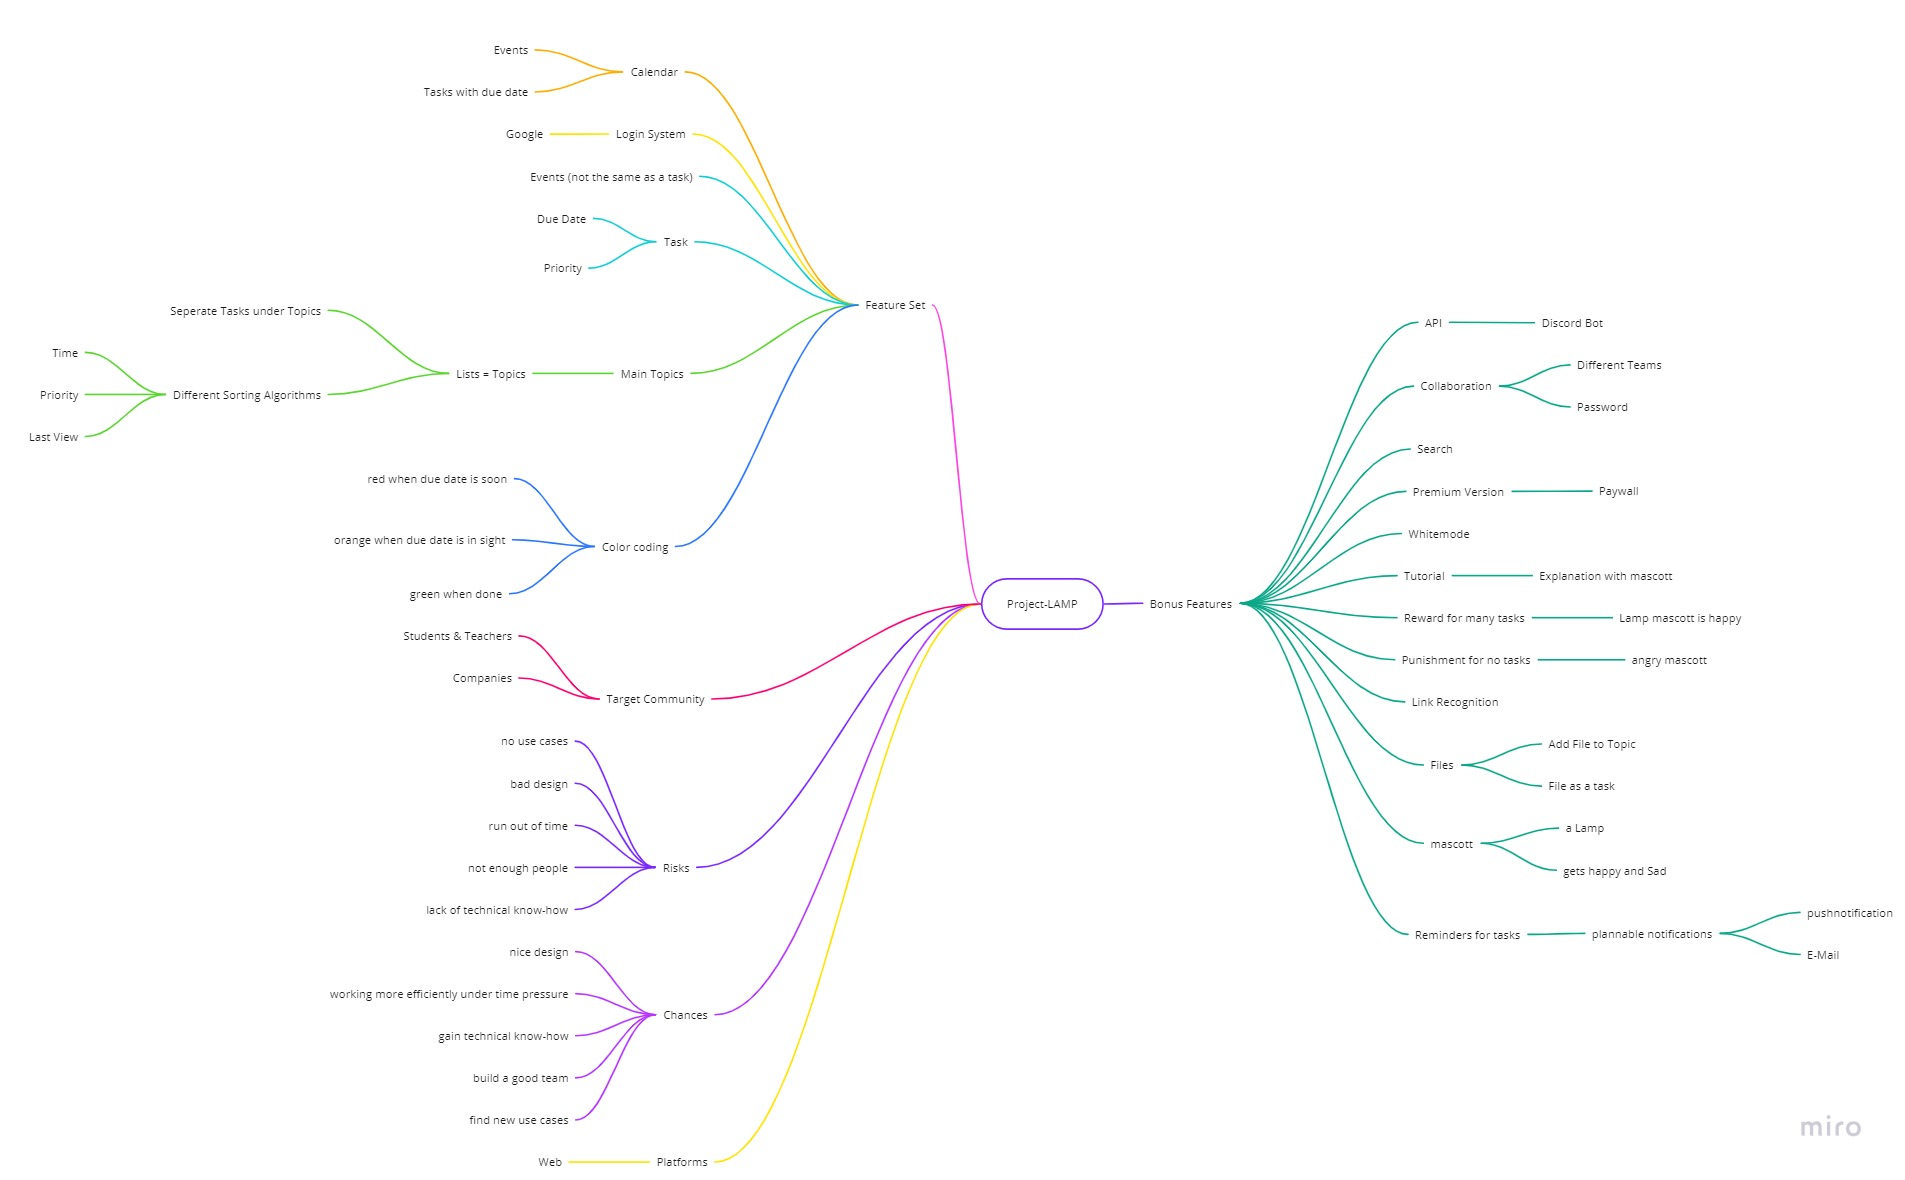
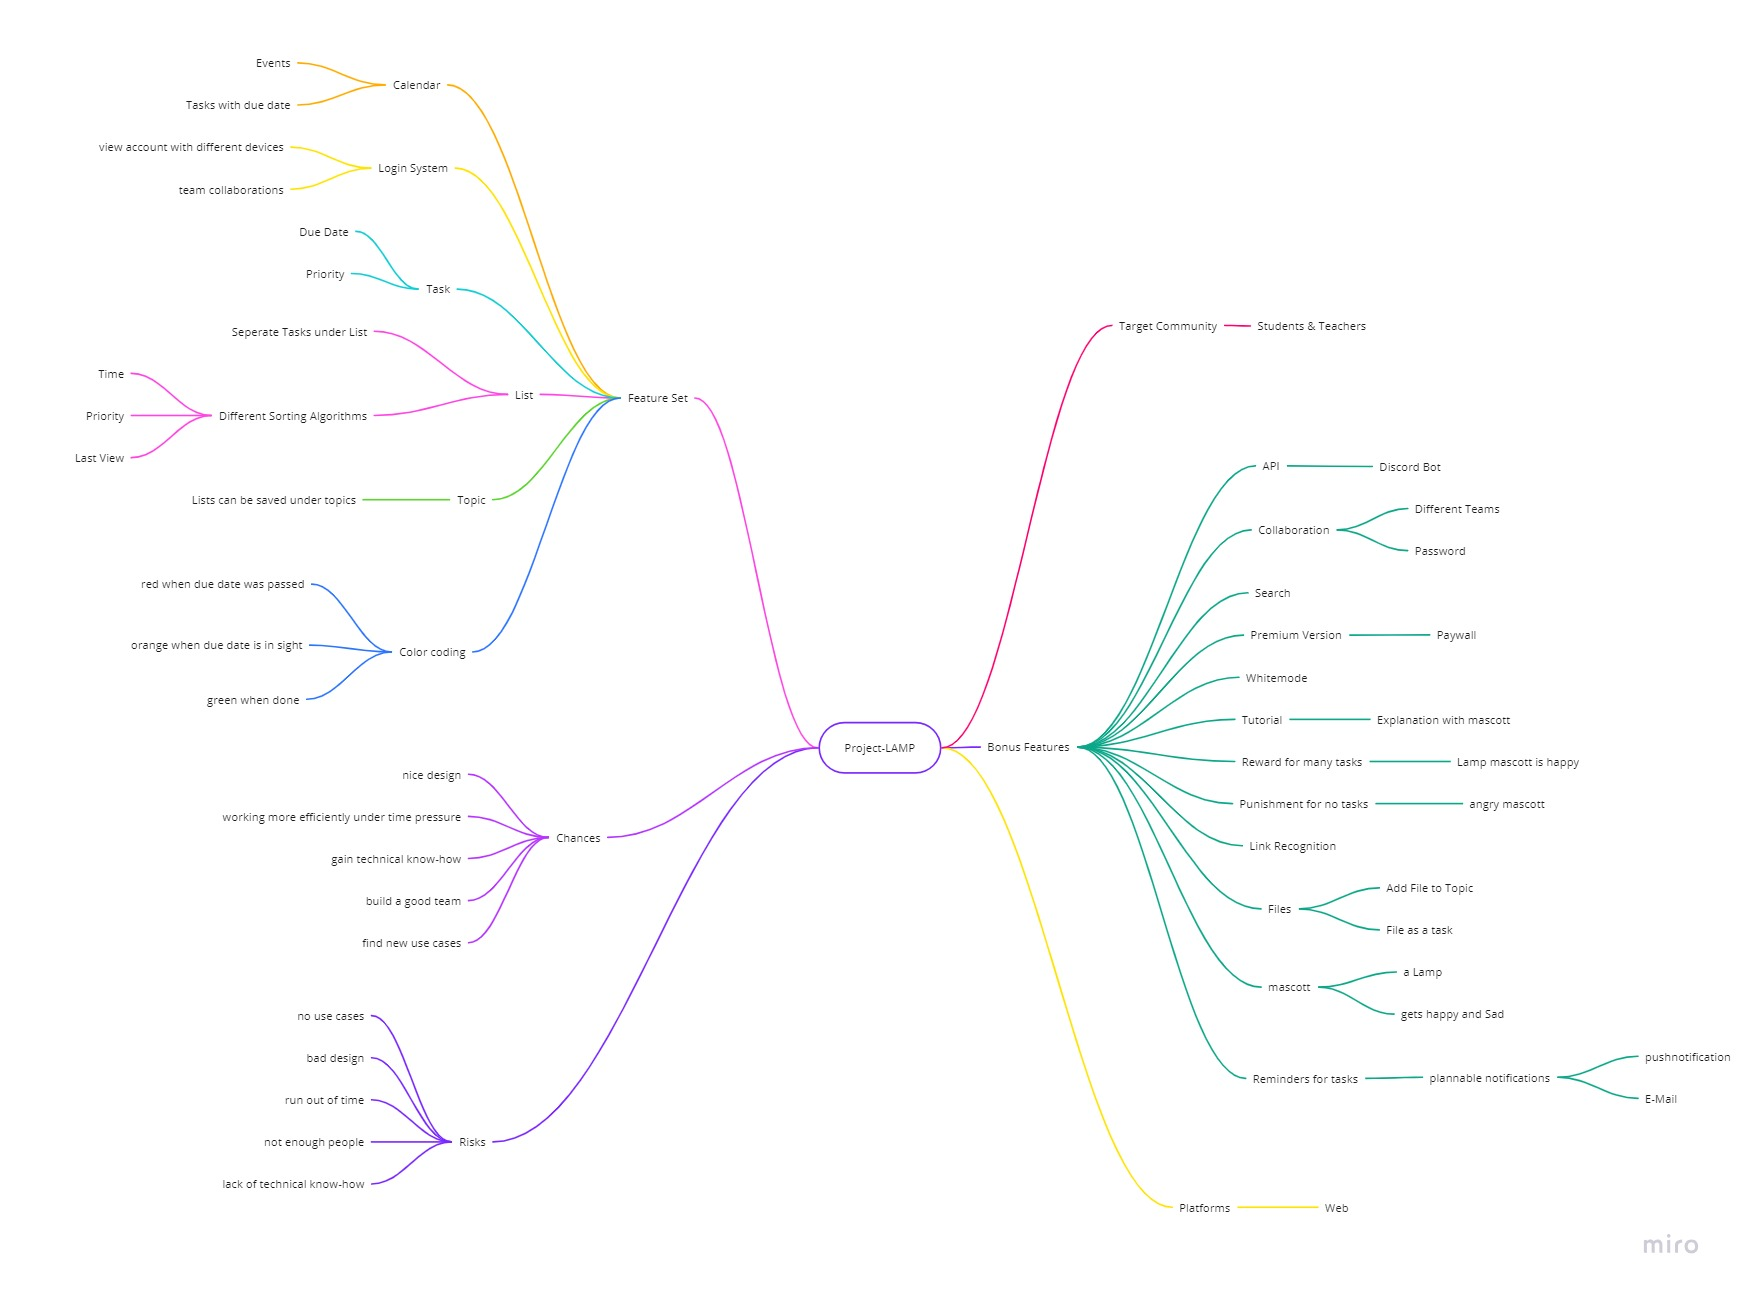
improved readme and adjusted mindmap

diff --git a/README.md b/README.md
@@ -3,12 +3,12 @@
 ## 1. Ausgangslage
 
 ### 1.1. Ist-Situation
-Über die letzten Jahre haben wir alle verschiedene To-Do Apps ausprobiert. Beispiel sind Notion, Google-Keep und Microsoft-ToDo.
-Notion ist für uns zu komplex, da es nicht nur eine To-Do App ist, sondern auch eine App für Notizen und Projekte. Deshalb haben wir meistens nur Microsoft-ToDo oder Google Keep benutzt.
-<br>
-Beide Apps verfügen über ein simples Design, welches sowohl in hell und dunkel verfügbar ist. Zudem sind sie sehr einfach zu bedienen, sowohl das erstellen von neuen Listen, sowie Tasks ist intuitiv. Auch Kollaborationen mit anderen Personen sind bei beiden Apps möglich.
+Über die letzten Jahre haben wir alle verschiedene To-Do Apps ausprobiert. Beispiel sind Notion, Google-Keep und Microsoft To Do.<br>
+Notion ist für uns zu komplex, da es nicht nur eine To-Do App ist, sondern auch eine App für Notizen und Projekte. Deshalb haben wir meistens nur Microsoft To Do oder Google Keep benutzt.
 
-Microsoft-ToDo brilliert vor allem durch auch das befriedigende Abhacken nach dem Erledigen einer Task und ihre vielen verschiedenen Sortieralgorithmen in den Listen.
+Beide Apps verfügen über ein simples Design, welches sowohl in hell und dunkel verfügbar ist. Zudem sind sie sehr einfach zu bedienen, sowohl das Erstellen von neuen Listen, als auch von Tasks, ist intuitiv. Auch Kollaborationen mit anderen Personen sind bei beiden Apps möglich.
+
+Microsoft To Do brilliert vor allem durch auch das befriedigende Abhacken nach dem Erledigen einer Task und ihre vielen verschiedenen Sortieralgorithmen in den Listen.
 
 Google Keep hingegen brilliert durch die Möglichkeit, Notizen mit Bildern, Zeichnungen und Sprachaufnahmen zu erstellen.
 
@@ -28,18 +28,39 @@ Bei Google Keep stört uns folgendes:
   - kann man keine Abgabefrist zu einzelnen To-Dos hinzufügen.
   - gibt es keine verschiedenen Sortieralgorithmen der Tasks.
   
-Bei stört uns an Microsoft To-Do:
+Außerdem stört uns an Microsoft To Do:
 - Das Design 
 - Es gibt keine Events (Events sind wie To-Dos, nur, dass sie nicht abgehakt werden können z.B. Schularbeiten, Geburtstage, etc.)
-- To-Dos werden bei Kollaborationen mit anderen Personen bei beiden abgehakt
 
 ## 2. Zielsetzung
-Bei unserem Projekt wird es unter Oberthemen Listen geben, in denen separate Tasks von Benutzern angelegt werden können.<br>
-Zudem wird es verschiedene Sortieralgorithmen geben, wie nach der Erstellzeit, nach der Priorität und nach dem, zuletzt angesehenen.<br>
-Einer Task soll man ein Ablaufdatum und eine Priorität zuordnen können. <br>
-Ein Login System wird es auch geben, damit das Zugreifen auf Tasks von verschiedenen Endgeräten aus möglich ist.<br>
-Ein weiteres Feature ist, dass die Tasks je nach Status farbcodiert werden.<br>
-Ein Kalender wird die Tasks mit Ablaufdatum und Events anzeigen.
+In unserem Projekt wollen wir eine angenehme Alternative zu anderen To-do Websites schaffen.<br> 
+Feature Set:
+- Tasks
+    - Titel
+    - Beschreibung von dem, was zu erledigen ist
+    - man kann ein Fälligkeitsdatum hinzufügen (aber nicht notwendig)
+    - das Hinzufügen einer Priorität soll möglich sein
+- Listen
+    - eine Liste umfasst mehrere Tasks (zum Beispiel: eine Liste mit allen Hausaufgaben, und eine Mathe Hausübung ist eine Task davon)
+    - Titel
+    - das Hinzufügen einer Beschreibung ist möglich
+- Themen
+    - man kann Listen zu Themen hinzufügen (zum Beispiel eine Liste mit Hausübungen zu dem Thema "Schule")
+    - Listen können allerdings auch ohne Thema existieren
+- Login System
+    - von verschiedenen Endgeräten aus auf eigenes Konto zugreifen können
+    - es sollen Team-Kollaborationen möglich sein, indem man gemeinsam auf Listen zugreifen kann
+- Kalender
+    - Zuvor erwähnte Events sollen im Kalender erstellt werden können und da dann auch aufscheinen
+    - Tasks, welche über ein Fälligkeitsdatum verfügen, werden ebenfalls angezeigt
+- Sortieralgorithmen der Tasks innerhalb der Listen
+    - Erstelldatum
+    - Priorität
+    - zuletzt angesehen
+- Farbcodierung der Tasks
+    - Rot wenn das Fälligkeitsdatum schon in der Vergangenheit liegt
+    - Gelb wenn das Fälligkeitsdatum bald ist
+    - Grün wenn eine Task erledigt wurde
 
 ![LAMP Mindmap](LAMP_Mindmap.jpg)
 
@@ -54,6 +75,8 @@ Ein Risiko ist auch, dass uns technisches Wissen fehlen kann, wodurch wir allerd
 Unser Team besteht aus vier engagierten, kreativen und kompetenten Personen. <br>
 Wir haben nicht vor, Geld für unser Projekt in die Hand zu nehmen.
 
-1. Meilenstein: fertig mit Analyse, Planung und Design
-2. Meilenstein: Programmierung (Datenbank, Testen, Website, Feature Set umsetzen)
-3. Meilenstein: Datenbank integrieren mit Login
+1. Meilenstein am 10. Februar: fertig mit Analyse, Planung und Design
+2. Meilenstein am 15. April: Login System, Tasks, Listen, Themen
+3. Meilenstein am 17. Juni: Team-Kollaborationen möglich, Farbcodierung, Sortieralgorithmen, Kalender
+
+Mögliche Bonus Features nach den Meilensteinen falls noch Zeit bleibt.
